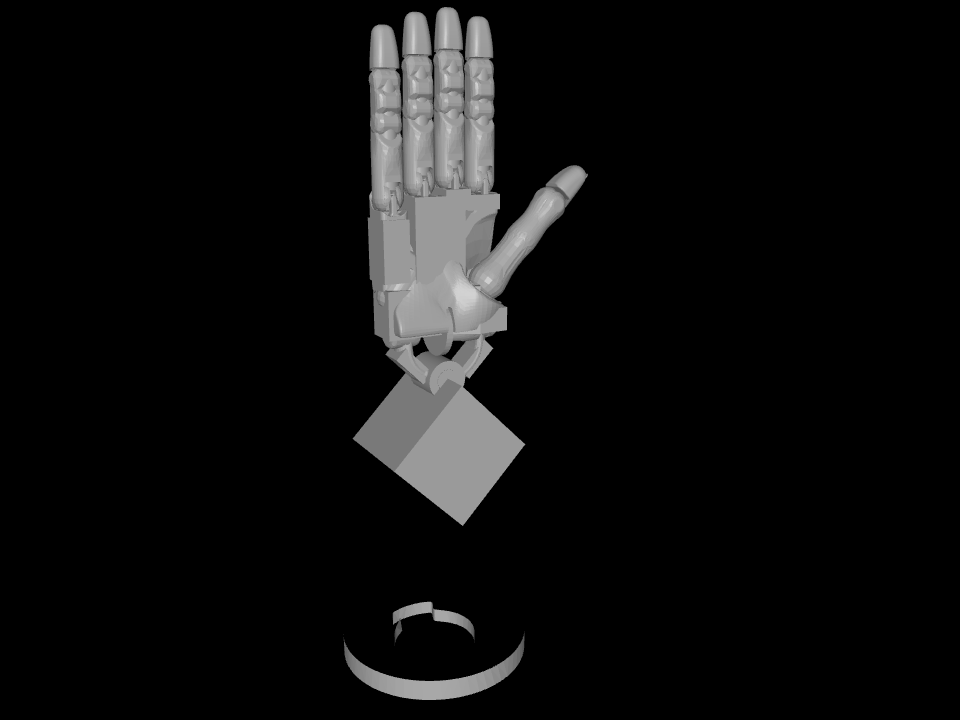
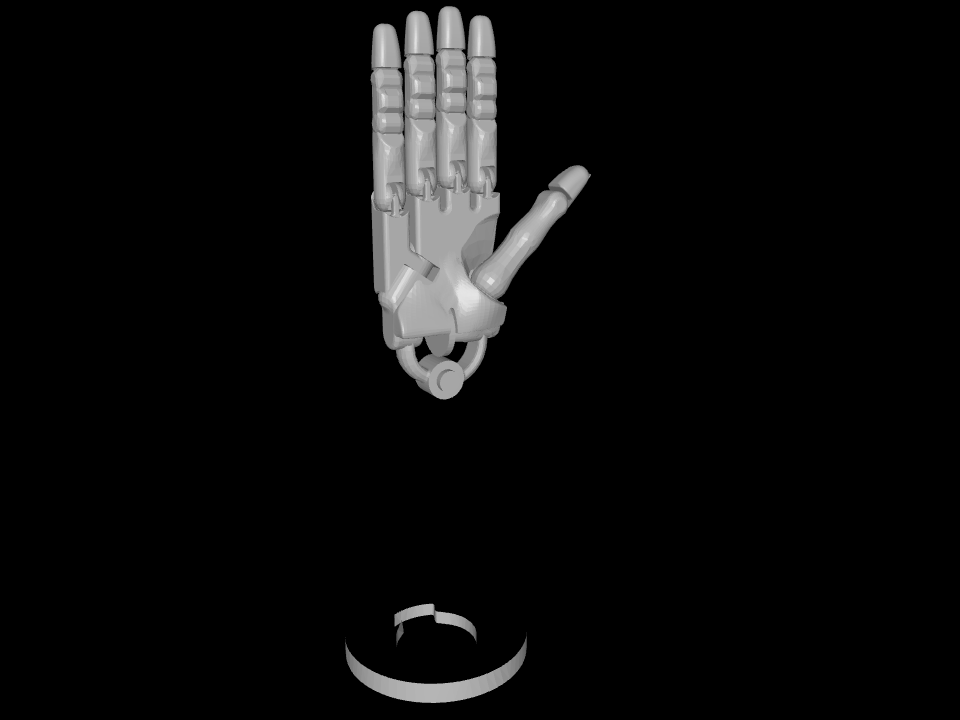
docs(ch03): 대표 렌더를 Allegro Hand v5.3로 교체 + visual 메시만 렌더
- collision geom(박스)이 아니라 visual 메시(contype==0)만 골라 렌더하도록 수정
- mjcf_allegro_hand.png -> mjcf_allegro_hand_v5.png (v5.3, 디테일 있는 visual)
- shadow도 visual-only로 재렌더

diff --git a/chapters/ch03/이정연/skill_practice.md b/chapters/ch03/이정연/skill_practice.md
@@ -130,11 +130,11 @@ urdf-to-mjcf/
 
 ### 변환한 MJCF를 MuJoCo로 띄운 화면
 
-대표적으로 변환한 손을 MuJoCo 렌더러로 띄워 확인한 스크린샷이다(변환 → 로드 → 렌더가 실제로 된다는 증거).
+대표적으로 변환한 손을 MuJoCo 렌더러로 띄워 확인한 스크린샷이다(변환 → 로드 → 렌더가 실제로 된다는 증거). collision geom이 아니라 **visual 메시(contype==0)만** 골라 렌더했다.
 
-| Allegro Hand (대표, bodies=17) | Shadow Hand (메시 풍부, bodies=25) |
+| Allegro Hand v5.3 (대표, bodies=10) | Shadow Hand (메시 풍부, bodies=25) |
 |---|---|
-| ![allegro hand mjcf](mjcf_allegro_hand.png) | ![shadow hand mjcf](mjcf_shadow_hand.png) |
+| ![allegro hand v5 mjcf](mjcf_allegro_hand_v5.png) | ![shadow hand mjcf](mjcf_shadow_hand.png) |
 
 ### 스킬로 만들어 진행해서 얻은 이점 (이번 장 핵심 회고)
 